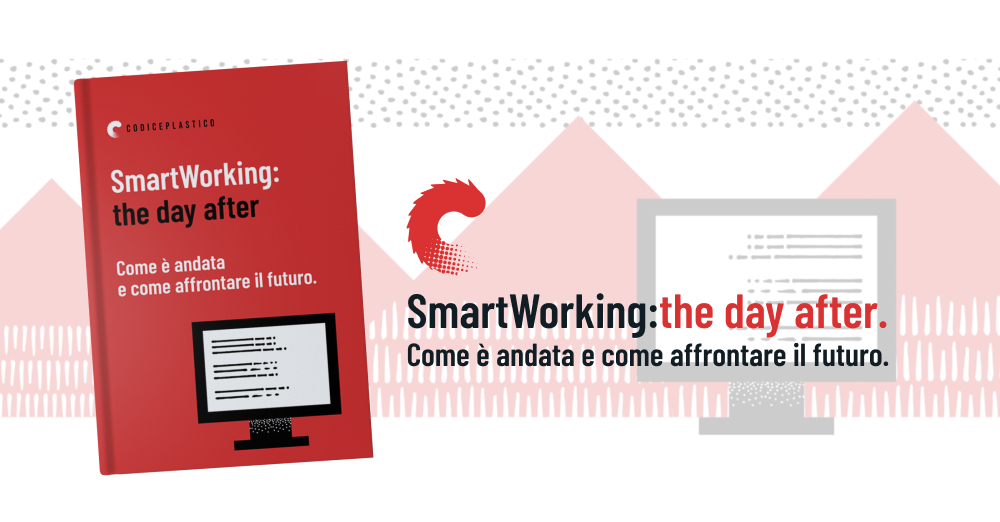
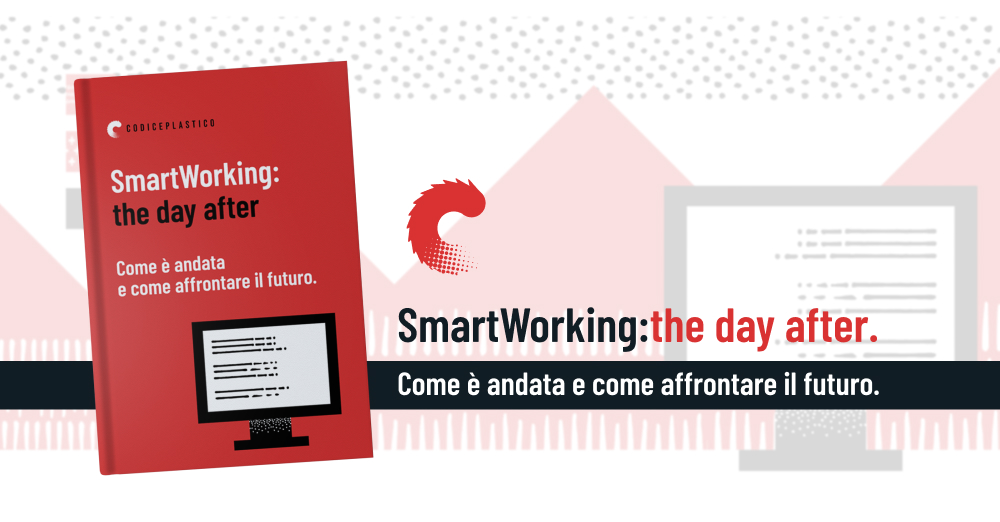
Aggiornamento cover

diff --git a/_posts/2020-07-21-smart-working-guida.md b/_posts/2020-07-21-smart-working-guida.md
@@ -1,8 +1,8 @@
 ---
 layout: post
 current: post
-cover: 'assets/images/post-cover/smart-working-cover.png'
-socialcover: 'assets/images/post-cover/'
+cover: 'assets/images/post-cover/20200724-smart-working.jpg
+socialcover: 'assets/images/post-cover/20200724-smart-working-s.jpg'
 slug: smart-working-guida
 title: 'SmartWorking: the day after.<br/>Come è andata e come affrontare il futuro. '
 date: 2020-07-21 09:00:00
